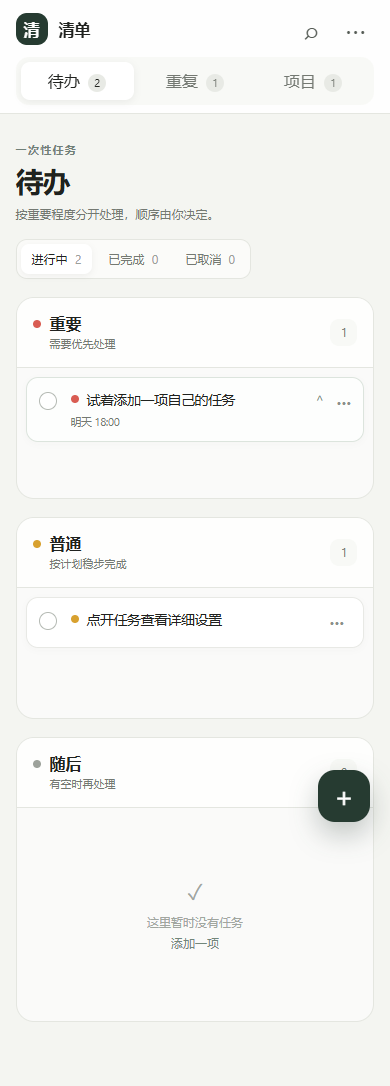
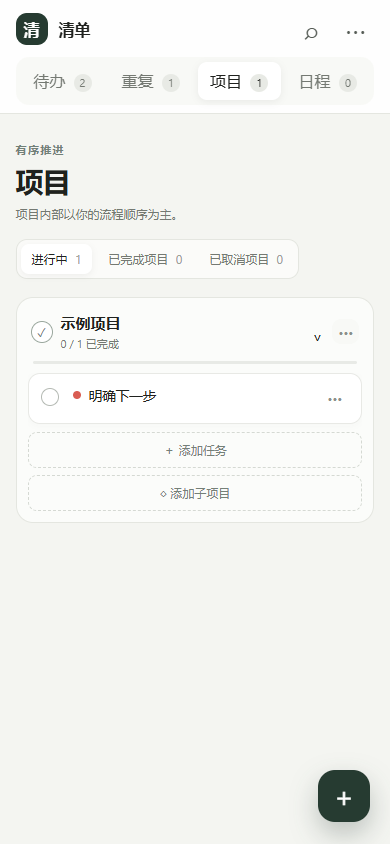
Refresh GitHub project overview

diff --git a/README.md b/README.md
@@ -4,28 +4,40 @@
 [![GitHub Release](https://img.shields.io/github/v/release/mmcc65/qingdan?display_name=tag)](https://github.com/mmcc65/qingdan/releases/latest)
 [![License: MIT](https://img.shields.io/badge/License-MIT-green.svg)](LICENSE)
 
-清单是一款轻量、本地优先、可自托管同步的个人任务管理工具。它不只是把一个待办网页分别打包到电脑和手机，而是让三端共享同一套任务核心，再由 Windows 与 Android 原生层负责系统托盘、精确闹钟、重启恢复、桌面小组件和应用更新。
+清单是一款面向个人使用的本地优先任务与日程管理工具，支持 Web、Windows、Android 和可安装 Android APK 的 HarmonyOS 设备。
 
-它想解决一个很具体的问题：个人清单应该打开就能记、离线也能改，同时又不能为了跨设备同步而交出数据控制权，更不能在应用退出或设备重启后失去重要提醒。
+它把不同类型的事情分开管理：临时事项放进待办，周期事务放进重复任务，复杂目标拆成多级项目，当天行程安排在日程中。任务可以设置节点、备注、优先级和提醒；Windows 与手机端负责系统级提醒，Android 桌面组件还能直接查看和完成待办。
+
+所有操作会先保存在本机，离线也能使用。需要跨设备时，可以连接自己的 Supabase 项目同步数据，不依赖作者托管的任务数据库。
 
 当前版本：`0.7.1 Beta`
 
-[下载最新版](https://github.com/mmcc65/qingdan/releases/latest) · [查看架构](docs/ARCHITECTURE.md) · [反馈问题](https://github.com/mmcc65/qingdan/issues)
+[下载 Windows 版](https://github.com/mmcc65/qingdan/releases/latest/download/Qingdan-desktop-release.zip) · [下载 Android/HarmonyOS 版](https://github.com/mmcc65/qingdan/releases/latest/download/Qingdan-mobile-release.apk) · [查看最新版说明](https://github.com/mmcc65/qingdan/releases/latest) · [反馈问题](https://github.com/mmcc65/qingdan/issues)
+
+## 能用它做什么
+
+| 使用场景 | 清单提供的能力 |
+| --- | --- |
+| 随手记下一次性事项 | 按重要、普通、随后分栏；设置节点、备注、置顶和延期；完成与取消记录分开保留 |
+| 管理每天或每周重复的事情 | 每天、工作日、每周、每月、每两周等规则；完成本次或跳过本次，不影响后续计划 |
+| 推进复杂目标 | 建立大项目和多级子项目，在每层添加任务；项目可独立完成，不会强制改变内部任务状态 |
+| 安排当天行程 | 独立日程模块，按日期和时间查看行程；顶部只提示今天的数量，三个状态按所选日期展示 |
+| 防止忘记重要事情 | 单次提醒或多时间段循环提醒；Windows 原生提醒窗口、Android 精确闹钟、重启后自动恢复 |
+| 不打开应用快速查看 | Android 圆角桌面组件最小 2×2，较高尺寸最多显示七项；点击打开应用或直接勾选完成 |
+| 找回和整理记录 | 全局搜索任务、日程、项目和备注；完成、取消、跳过记录可查看、恢复或永久删除 |
+| 在多台设备间使用 | 本地优先、离线可编辑；可选连接自己的 Supabase，通过账户同步并使用 RLS 隔离数据 |
+| 持续获得新版 | Windows 和 Android/HarmonyOS 均支持应用内检查更新，安装包附带 SHA-256 更新清单 |
 
 ![清单桌面端](docs/images/qingdan-desktop.png)
 
 ![清单手机端](docs/images/qingdan-mobile.png)
 
-## 它解决什么问题
-
-很多个人任务并不需要庞大的团队协作系统，但又超出了“写几行文字”的范围：一次性事项需要节点和延期，规律性事务需要独立的重复规则，长期目标需要多级项目，真正重要的提醒还必须穿过应用退出、断网和设备重启。
-
-清单因此采用了以下取向：
+## 工作方式
 
 - **先本地、后同步**：编辑立即写入本机，网络故障不会阻塞记录；同步是可选增强能力。
 - **数据归用户管理**：跨设备同步连接用户自己的 Supabase 项目，仓库不内置作者控制的任务数据服务。
 - **提醒交给操作系统**：共享 Web 核心负责业务规则，Windows 和 Android 原生外壳负责后台调度与通知。
-- **按使用场景拆分**：一次性待办、重复任务、日程和项目各自拥有清晰入口，避免所有能力挤在一张平面列表里。
+- **按使用场景拆分**：待办、重复、项目、日程各自拥有清晰入口，避免所有能力挤在一张平面列表里。
 
 ## 设计亮点与差异化
 
@@ -35,7 +47,7 @@
 | 可自托管同步 | Supabase Auth、Postgres、Realtime 与 RLS | 同步基础设施和任务数据由使用者掌控 |
 | 共享核心 + 原生能力 | Web/PWA、WPF WebView2、Android WebView 共享界面与业务逻辑 | 三端行为一致，同时保留系统级提醒能力 |
 | 可靠提醒链路 | 精确闹钟、后台调度、重启与系统时间变化后重新调度 | 提醒不依赖页面一直打开 |
-| 分层任务模型 | 待办、重复任务、多级项目与项目内任务相互独立 | 临时事项、习惯和长期目标不会混成一团 |
+| 分层任务模型 | 待办、重复任务、多级项目、项目内任务与日程相互独立 | 临时事项、习惯、长期目标和当天行程不会混成一团 |
 | 更新与同步解耦 | 官方更新清单固定在代码中，自托管同步地址由用户配置 | 软件更新来源不会因为更换同步服务器而被悄悄替换 |
 
 这种结构的创新不在于堆更多功能，而在于把“跨平台一致性”“原生提醒可靠性”和“用户掌控数据”放进一个仍然轻量的个人清单中。
@@ -73,16 +85,7 @@
 
 > 当前版本记录重复规则和每次完成/跳过事件，但尚未提供复杂的自定义日历规则编辑器。
 
-### 3. 日程
-
-日程是独立于待办、重复和项目的当日行程模块。
-
-- 使用日期选择器或前后一天按钮查看每天的安排。
-- 行程按开始时间排列，可完成、取消、恢复或删除。
-- 支持与待办一致的单次提醒和多时间段循环提醒；手机端可使用系统精确闹钟。
-- 全局搜索也会包含进行中的日程。
-
-### 4. 项目
+### 3. 项目
 
 项目用于管理由多项任务组成的长期目标，并支持继续拆分子项目。
 
@@ -93,6 +96,17 @@
 - 支持折叠项目、置顶项目、手动调整项目顺序、重命名，以及继续添加子项目。
 - 已完成的项目任务默认隐藏在所属项目底部，可按需展开、收起或恢复，不会混入项目完成列表。
 - 删除项目会同时删除其中的任务和全部子项目，操作前会二次确认。
+
+### 4. 日程
+
+日程是独立于待办、重复和项目的当日行程模块。
+
+- 使用日期选择器或前后一天按钮查看每天的安排，行程按开始时间排列。
+- 顶部“日程”角标始终只统计今天进行中的行程。
+- 日程页的行程、已完成、已取消数量和内容，只显示当前选择的日期。
+- 行程可完成、取消、恢复或删除，并支持单次提醒和多时间段循环提醒。
+- Windows 与手机端可提供原生提醒，Android/HarmonyOS 可使用系统精确闹钟。
+- 全局搜索也会包含进行中的日程。
 
 ### 5. 任务节点与提醒
 
@@ -113,7 +127,7 @@
 - 待办和项目任务分为进行中、已完成、已取消三种状态；项目本身也可独立完成或取消。
 - 重复任务保留独立的完成本次与跳过本次历史，不会混入普通待办归档。
 - 任务卡可以直接完成、编辑、延后、取消或删除。
-- 全局搜索覆盖进行中的待办、重复任务、项目、项目任务及任务备注。
+- 全局搜索覆盖进行中的待办、重复任务、项目、项目任务、日程及备注。
 - 支持 `Ctrl/Cmd + K` 打开搜索，`Ctrl/Cmd + Enter` 快速新建待办。
 
 ### 7. 本地数据与云同步

diff --git a/docs/README.en.md b/docs/README.en.md
@@ -1,8 +1,8 @@
 # Qingdan
 
-Qingdan is a lightweight, local-first personal task manager with optional self-hosted sync. It combines one shared task core with native Windows and Android capabilities, so the same data model and interface can still use system trays, exact alarms, reboot recovery, widgets, and application updates.
+Qingdan is a local-first personal task and schedule manager for Web, Windows, Android, and Android-compatible HarmonyOS devices. One-off todos, recurring work, nested projects, and daily itineraries have separate modules instead of sharing one flat list.
 
-The goal is practical: capture and edit tasks immediately while offline, keep control of your sync infrastructure, and preserve important reminders when the app is closed or the device restarts.
+Tasks can carry priorities, due nodes, notes, and single or interval reminders. Native Windows and Android layers provide system reminders, reboot recovery, application updates, and an interactive Android home-screen widget. Data is stored locally first; optional cross-device sync connects to a Supabase project controlled by the user.
 
 The current version is `0.7.1 Beta`. See the [Chinese README](../README.md) for complete installation, self-hosting, development, privacy, and release instructions.
 
@@ -22,8 +22,8 @@ The current version is `0.7.1 Beta`. See the [Chinese README](../README.md) for 
 | --- | --- |
 | Todos | Important/normal/later priorities, due nodes, notes, pinning, postponement, completion, cancellation, restore, and permanent deletion |
 | Recurring tasks | Daily, weekday, weekly, monthly, and biweekly rules with separate completion and skip history |
-| Schedule | A separate day itinerary with date navigation and optional single or interval reminders |
 | Projects | Nested projects, project tasks, aggregate progress, collapse, pin, rename, and per-project archives |
+| Schedule | A separate daily itinerary; the main badge counts today, while active/completed/cancelled views follow the selected date |
 | Reminders | Single or interval schedules; native Windows reminder windows; Android exact alarms, catch-up, and rescheduling after reboot or time changes |
 | Search and history | Search active task names, notes, and projects; separate completed/cancelled/skipped records |
 | Sync | Local-first storage, email authentication, optional user-owned Supabase, Realtime updates, manual sync, and RLS isolation |
